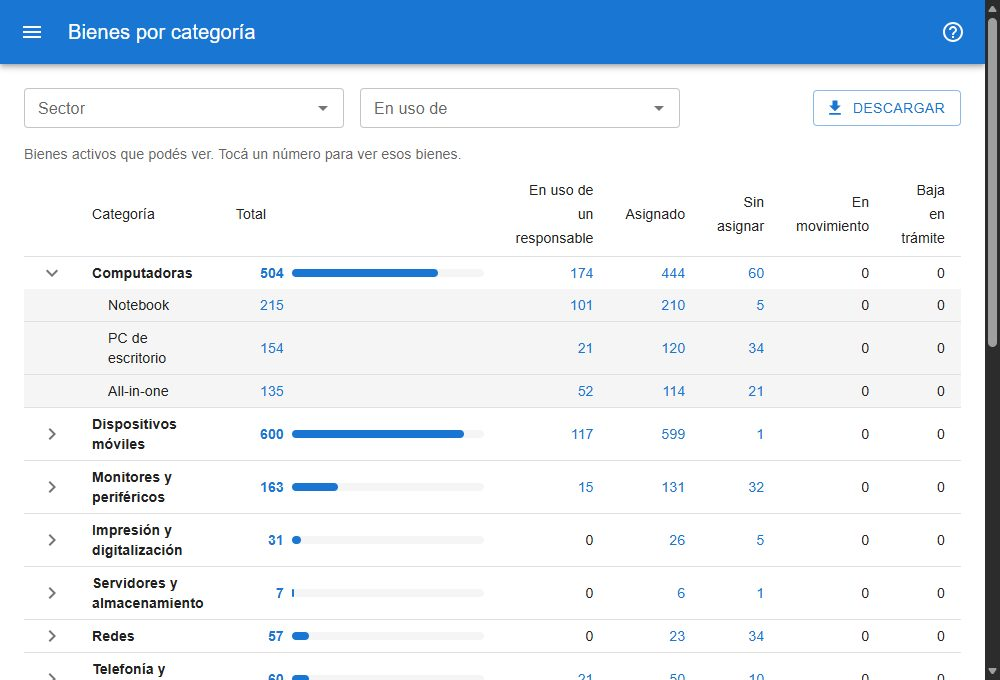
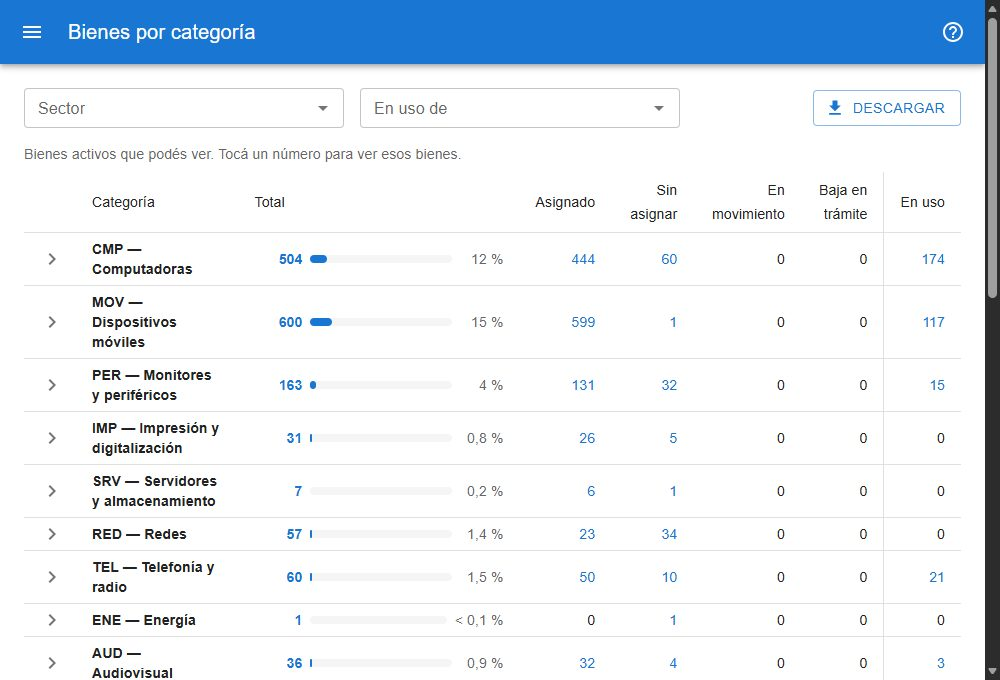
modifico el orden de las columnas. cambio la barra a porcentaje del total de bienes

diff --git a/src/client/principal/categorias/bienes-por-categoria.tsx b/src/client/principal/categorias/bienes-por-categoria.tsx
@@ -11,7 +11,7 @@ import type {Fila} from '../base/tipos-tabla';
 import {irA} from '../render-connected-app-inventario';
 import {
     FILTROS_DEL_REPORTE, armarReporte, consultaDelReporte, csvDelReporte, filtroDeCelda, hashDeBusqueda, nombreDelCsv,
-    EN_USO, opcionesDeAgrupado, opcionesDeSectores,
+    EN_USO, opcionesDeAgrupado, opcionesDeSectores, porcentaje,
     type CategoriaDeCatalogo, type Celda, type ColumnaDeEstado, type Cuenta, type EstadoDeCatalogo,
     type FilaDeCategoria, type FiltroPrevio, type OpcionDeFiltro, type Reporte,
 } from './categorias-datos';
@@ -63,17 +63,19 @@ function destinoDe(celda:Celda, siempre = false):string|null{
     return filtro || siempre ? hashDeBusqueda(filtro) : null;
 }
 
+const SEPARADOR = {borderLeft:1, borderLeftColor:'divider'};
+
 function CeldasDeEstado({cuenta, columnas, celda}:{cuenta:Cuenta, columnas:ColumnaDeEstado[], celda:Celda|null}){
-    return <>{columnas.length
-        ? <TableCell align="right">
-            <Cantidad valor={cuenta.enUso} destino={celda ? destinoDe({...celda, enUso:true}) : null}/>
-        </TableCell>
-        : null}
-    {columnas.map(columna =>
+    return <>{columnas.map(columna =>
         <TableCell key={columna.clave} align="right">
             <Cantidad valor={cuenta.porEstado[columna.clave] ?? 0} destino={celda ? destinoDe({...celda, estado:columna}) : null}/>
         </TableCell>
-    )}</>;
+    )}
+    {columnas.length
+        ? <TableCell align="right" sx={SEPARADOR}>
+            <Cantidad valor={cuenta.enUso} destino={celda ? destinoDe({...celda, enUso:true}) : null}/>
+        </TableCell>
+        : null}</>;
 }
 
 function FilaCategoria({fila, columnas, previos, angosta}:{fila:FilaDeCategoria, columnas:ColumnaDeEstado[], previos:FiltroPrevio[], angosta:boolean}){
@@ -97,6 +99,10 @@ function FilaCategoria({fila, columnas, previos, angosta}:{fila:FilaDeCategoria,
                 <Stack direction="row" spacing={1} alignItems="center">
                     <Box sx={{minWidth:48, textAlign:'right'}}><Cantidad valor={fila.cuenta.total} destino={destinoDe(celda)} fuerte/></Box>
                     <Barra proporcion={fila.proporcion}/>
+                    <Typography variant="body2" color="text.secondary" sx={{minWidth:44, textAlign:'right'}}
+                        title="Parte del total general">
+                        {porcentaje(fila.proporcion)}
+                    </Typography>
                 </Stack>
             </TableCell>
             <CeldasDeEstado cuenta={fila.cuenta} columnas={columnasVisibles} celda={celda}/>
@@ -106,15 +112,15 @@ function FilaCategoria({fila, columnas, previos, angosta}:{fila:FilaDeCategoria,
                 <TableCell/>
                 <TableCell colSpan={2}>
                     <Stack direction="row" flexWrap="wrap" columnGap={2} rowGap={0.5}>
-                        <Typography variant="body2" component="span">
-                            {EN_USO.titulo}:{' '}
-                            <Cantidad valor={fila.cuenta.enUso} destino={destinoDe({...celda, enUso:true})}/>
-                        </Typography>
                         {columnas.map(columna => <Typography key={columna.clave} variant="body2" component="span">
                             {columna.etiqueta}:{' '}
                             <Cantidad valor={fila.cuenta.porEstado[columna.clave] ?? 0} destino={destinoDe({...celda, estado:columna})}/>
                         </Typography>)}
                     </Stack>
+                    <Typography variant="body2" sx={{mt:0.5}}>
+                        {EN_USO.titulo}:{' '}
+                        <Cantidad valor={fila.cuenta.enUso} destino={destinoDe({...celda, enUso:true})}/>
+                    </Typography>
                 </TableCell>
             </TableRow>
             : null}
@@ -158,11 +164,13 @@ function TablaDelReporte({reporte, previos, angosta}:{reporte:Reporte, previos:F
                     <TableCell padding="checkbox"/>
                     <TableCell>Categoría</TableCell>
                     <TableCell sx={{width:angosta ? '50%' : '30%'}}>Total</TableCell>
-                    {columnas.length
-                        ? <TableCell align="right" title="Bienes que alguien tiene en uso (campo «en uso de» cargado)">{EN_USO.titulo}</TableCell>
-                        : null}
                     {columnas.map(columna =>
                         <TableCell key={columna.clave} align="right" title={columna.descripcion ?? undefined}>{columna.etiqueta}</TableCell>)}
+                    {columnas.length
+                        ? <TableCell align="right" sx={{...SEPARADOR, whiteSpace:'nowrap'}} title="Bienes que alguien tiene en uso (dato «en uso de» cargado); se cuenta aparte del estado">
+                            {EN_USO.titulo}
+                        </TableCell>
+                        : null}
                 </TableRow>
             </TableHead>
             <TableBody>
@@ -186,6 +194,25 @@ function TablaDelReporte({reporte, previos, angosta}:{reporte:Reporte, previos:F
             </TableBody>
         </Table>
     </TableContainer>;
+}
+
+function ReferenciaDeColumnas({columnas}:{columnas:ColumnaDeEstado[]}){
+    const items = [
+        ...columnas,
+        {clave:EN_USO.dimension, etiqueta:EN_USO.titulo, descripcion:'Alguien tiene el bien en uso: está cargado el dato «en uso de» de la ficha. Se cuenta aparte del estado, por eso no suma con las columnas anteriores.'},
+    ];
+    return <Box sx={{mt:3}}>
+        <Typography variant="subtitle2" gutterBottom>Qué significa cada columna</Typography>
+        <Box component="dl" sx={{m:0, display:'grid', gridTemplateColumns:{xs:'1fr', sm:'max-content 1fr'}, columnGap:2, rowGap:0.5}}>
+            {items.map(({clave, etiqueta, descripcion}) => <React.Fragment key={clave}>
+                <Typography component="dt" variant="body2" sx={{fontWeight:600}}>{etiqueta}</Typography>
+                <Typography component="dd" variant="body2" color="text.secondary" sx={{m:0, mb:{xs:1, sm:0}}}>{descripcion ?? ''}</Typography>
+            </React.Fragment>)}
+        </Box>
+        <Typography variant="body2" color="text.secondary" sx={{mt:1}}>
+            Cada bien está en un solo estado: el sistema lo calcula y la suma de los estados es el total.
+        </Typography>
+    </Box>;
 }
 
 function SelectorDeFiltro({titulo, opciones, valor, cargando, onCambio}:{
@@ -297,5 +324,6 @@ export function BienesPorCategoria(){
         {error ? <Alert severity="error">{error}</Alert> : null}
         {!reporte && !error ? <Typography color="text.secondary">Cargando…</Typography> : null}
         {reporte ? <TablaDelReporte reporte={reporte} previos={previos} angosta={angosta}/> : null}
+        {reporte ? <ReferenciaDeColumnas columnas={reporte.columnas}/> : null}
     </Box>;
 }

diff --git a/test/categorias-reporte.test.js b/test/categorias-reporte.test.js
@@ -20,7 +20,7 @@ require.extensions['.ts'] = function transpileTypeScript(module, filename) {
 };
 
 const {
-    armarReporte, consultaDelReporte, filtroDeCelda, hashDeBusqueda, csvDelReporte, nombreDelCsv, opcionesDeAgrupado, opcionesDeSectores, OTROS,
+    armarReporte, consultaDelReporte, filtroDeCelda, hashDeBusqueda, csvDelReporte, nombreDelCsv, opcionesDeAgrupado, opcionesDeSectores, porcentaje, OTROS,
 } = require(path.join(projectRoot, 'src/client/principal/categorias/categorias-datos.ts'));
 const {grupoFiltroDesdeTexto} = require(path.join(projectRoot, 'src/common/bienes-agrupar.ts'));
 
@@ -55,9 +55,9 @@ const FILAS = [
 
 test('ordena por el catálogo, separa las categorías aparte y deja sin categoría al final', () => {
     const reporte = armarReporte(FILAS, CATEGORIAS, ESTADOS);
-    assert.deepEqual(reporte.principal.map(f => f.nombre), ['Computadoras', 'Dispositivos móviles', 'Sin categoría']);
-    assert.deepEqual(reporte.aparte.map(f => f.nombre), ['Accesorios y componentes']);
-    assert.deepEqual(reporte.principal[0].subcategorias.map(s => s.nombre), ['Notebook', 'PC de escritorio']);
+    assert.deepEqual(reporte.principal.map(f => f.nombre), ['CMP — Computadoras', 'MOV — Dispositivos móviles', 'Sin categoría']);
+    assert.deepEqual(reporte.aparte.map(f => f.nombre), ['ACC — Accesorios y componentes']);
+    assert.deepEqual(reporte.principal[0].subcategorias.map(s => s.nombre), ['CMP-01 — Notebook', 'CMP-02 — PC de escritorio']);
 });
 
 test('los totales cierran', () => {
@@ -87,12 +87,18 @@ test('las columnas son los estados con orden; uno sin orden va a «Otros»', () 
     assert.equal(conBaja.principal[0].cuenta.total, 22);
 });
 
-test('una categoría sin bienes no aparece y la barra es relativa al bloque', () => {
+test('una categoría sin bienes no aparece y la barra es la parte del total general', () => {
     const reporte = armarReporte(FILAS, CATEGORIAS, ESTADOS);
     assert.equal(reporte.principal.some(f => f.categoria === 'VEH'), false);
-    assert.equal(reporte.principal[1].proporcion, 1);
-    assert.equal(reporte.principal[0].proporcion, 20 / 50);
-    assert.equal(reporte.aparte[0].proporcion, 1);
+    assert.equal(reporte.principal[1].proporcion, 50 / 94);
+    assert.equal(reporte.principal[0].proporcion, 20 / 94);
+    assert.equal(reporte.aparte[0].proporcion, 20 / 94);
+    const suma = [...reporte.principal, ...reporte.aparte].reduce((t, f) => t + f.proporcion, 0);
+    assert.ok(Math.abs(suma - 1) < 1e-9);
+    assert.equal(porcentaje(0.1248), '12 %');
+    assert.equal(porcentaje(0.0002), '< 0,1 %');
+    assert.equal(porcentaje(0), '0 %');
+    assert.equal(porcentaje(0.0425), '4,3 %');
 });
 
 test('el filtro de cada celda', () => {
@@ -161,13 +167,13 @@ test('el CSV abre en Excel con acentos y tiene los mismos números', () => {
     const csv = csvDelReporte(armarReporte(FILAS, CATEGORIAS, ESTADOS));
     assert.equal(csv.charCodeAt(0), 0xFEFF);
     const lineas = csv.slice(1).trimEnd().split('\r\n');
-    assert.equal(lineas[0], 'Categoría;Subcategoría;Total;En uso de un responsable;Asignado;Sin asignar');
-    assert.ok(lineas.includes('Computadoras;Notebook;13;6;10;3'));
-    assert.ok(lineas.includes('Dispositivos móviles;Tablet;50;50;50;0'));
-    assert.ok(lineas.includes('Sin categoría;(sin dato);4;0;0;4'));
-    assert.ok(lineas.includes('Total principal;;74;56;67;7'));
-    assert.ok(lineas.includes('Accesorios y componentes;Mouse;20;0;20;0'));
-    assert.equal(lineas.at(-1), 'Total general;;94;56;87;7');
+    assert.equal(lineas[0], 'Categoría;Subcategoría;Total;Asignado;Sin asignar;En uso');
+    assert.ok(lineas.includes('CMP — Computadoras;CMP-01 — Notebook;13;10;3;6'));
+    assert.ok(lineas.includes('MOV — Dispositivos móviles;MOV-02 — Tablet;50;50;0;50'));
+    assert.ok(lineas.includes('Sin categoría;(sin dato);4;0;4;0'));
+    assert.ok(lineas.includes('Total principal;;74;67;7;56'));
+    assert.ok(lineas.includes('ACC — Accesorios y componentes;ACC-01 — Mouse;20;20;0;0'));
+    assert.equal(lineas.at(-1), 'Total general;;94;87;7;56');
     assert.equal(nombreDelCsv([{dimension: 'sector', valor: '2 4', texto: '', etiqueta: ''}], new Date(2026, 9, 5)), 'bienes-por-categoria-2_4-2026-10-05.csv');
     assert.equal(nombreDelCsv([], new Date(2026, 9, 5)), 'bienes-por-categoria-2026-10-05.csv');
 });

diff --git a/src/client/principal/categorias/categorias-datos.ts b/src/client/principal/categorias/categorias-datos.ts
@@ -4,7 +4,7 @@ import {textoSinCodigo} from '../columnas-busqueda';
 
 export const DIMENSIONES_DEL_REPORTE = ['categoria', 'subcategoria', 'estado', 'en_uso'] as const;
 
-export const EN_USO = {dimension:'en_uso', valor:'SI', texto:'Sí', etiqueta:'en uso de un responsable', titulo:'En uso de un responsable'} as const;
+export const EN_USO = {dimension:'en_uso', valor:'SI', texto:'Sí', etiqueta:'en uso de un responsable', titulo:'En uso'} as const;
 
 export const OTROS = '__otros__';
 
@@ -69,9 +69,14 @@ function porOrdenYCodigo<T>(orden:(x:T) => number|null, codigo:(x:T) => string){
     return (a:T, b:T) => (orden(a) ?? Infinity) - (orden(b) ?? Infinity) || codigo(a).localeCompare(codigo(b));
 }
 
-function conProporcion(filas:FilaDeCategoria[]):FilaDeCategoria[]{
-    const mayor = Math.max(0, ...filas.map(fila => fila.cuenta.total));
-    return filas.map(fila => ({...fila, proporcion:mayor ? fila.cuenta.total / mayor : 0}));
+function conProporcion(filas:FilaDeCategoria[], total:number):FilaDeCategoria[]{
+    return filas.map(fila => ({...fila, proporcion:total ? fila.cuenta.total / total : 0}));
+}
+
+export function porcentaje(proporcion:number):string{
+    const decimales = proporcion < 0.1 ? 1 : 0;
+    const valor = Math.round(proporcion * 100 * 10 ** decimales) / 10 ** decimales;
+    return proporcion > 0 && valor === 0 ? '< 0,1 %' : `${String(valor).replace('.', ',')} %`;
 }
 
 export function armarReporte(
@@ -100,7 +105,7 @@ export function armarReporte(
         if(!sub){
             sub = {
                 subcategoria,
-                nombre:subcategoria == null ? SIN_DATO : textoSinCodigo(textos[1] ?? subcategoria, subcategoria),
+                nombre:subcategoria == null ? SIN_DATO : textos[1] ?? subcategoria,
                 cuenta:cuentaVacia(),
             };
             grupo.subcategorias.set(subcategoria, sub);
@@ -111,7 +116,7 @@ export function armarReporte(
         const delCatalogo = categoria == null ? undefined : catalogo.get(categoria);
         return {
             categoria,
-            nombre:categoria == null ? 'Sin categoría' : delCatalogo?.nombre ?? categoria,
+            nombre:categoria == null ? 'Sin categoría' : delCatalogo ? `${categoria} — ${delCatalogo.nombre}` : categoria,
             cuenta,
             subcategorias:[...subcategorias.values()].sort((a, b) =>
                 a.subcategoria == null ? 1 : b.subcategoria == null ? -1 : a.subcategoria.localeCompare(b.subcategoria)),
@@ -124,8 +129,9 @@ export function armarReporte(
         .sort((a, b) => a.categoria == null ? 1 : b.categoria == null ? -1
             : porOrdenYCodigo<typeof a>(x => x.orden, x => x.categoria ?? '')(a, b))
         .map(({aparte:_aparte, orden:_orden, ...fila}) => fila);
-    const principal = conProporcion(ordenar(filasDeCategoria.filter(fila => !fila.aparte)));
-    const aparte = conProporcion(ordenar(filasDeCategoria.filter(fila => fila.aparte)));
+    const totalGeneral = filasDeCategoria.reduce((suma, fila) => suma + fila.cuenta.total, 0);
+    const principal = conProporcion(ordenar(filasDeCategoria.filter(fila => !fila.aparte)), totalGeneral);
+    const aparte = conProporcion(ordenar(filasDeCategoria.filter(fila => fila.aparte)), totalGeneral);
     const totalPrincipal = sumarCuentas(principal.map(fila => fila.cuenta));
     const totalAparte = sumarCuentas(aparte.map(fila => fila.cuenta));
     return {
@@ -226,8 +232,8 @@ function campoCsv(valor:string|number):string{
 }
 
 export function csvDelReporte(reporte:Reporte):string{
-    const numeros = (cuenta:Cuenta) => [cuenta.total, cuenta.enUso, ...reporte.columnas.map(columna => cuenta.porEstado[columna.clave] ?? 0)];
-    const lineas:(string|number)[][] = [['Categoría', 'Subcategoría', 'Total', EN_USO.titulo, ...reporte.columnas.map(columna => columna.etiqueta)]];
+    const numeros = (cuenta:Cuenta) => [cuenta.total, ...reporte.columnas.map(columna => cuenta.porEstado[columna.clave] ?? 0), cuenta.enUso];
+    const lineas:(string|number)[][] = [['Categoría', 'Subcategoría', 'Total', ...reporte.columnas.map(columna => columna.etiqueta), EN_USO.titulo]];
     const bloque = (filas:FilaDeCategoria[]) => {
         for(const categoria of filas){
             for(const sub of categoria.subcategorias){

diff --git a/src/client/principal/control/controles-listado.tsx b/src/client/principal/control/controles-listado.tsx
@@ -150,7 +150,7 @@ export function ControlesListado({
     );
     const espacios = React.useMemo(() => opcionesDe(filas, 'espacio', espacioDe), [filas]);
     const estados = React.useMemo(
-        () => opcionesDe(filas, 'estado', f => textoDeReferencia(f.estado, f.estados_bien__descripcion)),
+        () => opcionesDe(filas, 'estado', f => textoDeReferencia(f.estado, f.estados_bien__etiqueta)),
         [filas],
     );
     const atributos = React.useMemo(() => opcionesDePares(filas.map(f => f.atributos as Par[])), [filas]);
@@ -230,7 +230,7 @@ export function ControlesListado({
             field:'estado',
             headerName:'Estado',
             width:130,
-            valueGetter:(_v, fila) => textoDeReferencia(fila.estado, fila.estados_bien__descripcion),
+            valueGetter:(_v, fila) => textoDeReferencia(fila.estado, fila.estados_bien__etiqueta),
         },
         {
             field:'sector',

diff --git a/src/server/table-bienes_control.ts b/src/server/table-bienes_control.ts
@@ -96,7 +96,7 @@ export function bienes_control(context:TableContext):TableDefinition{
                 alias:'responsable_sector', displayFields:['apellido', 'nombre']},
             {references:'responsables'        , fields:['responsable']        ,
                 alias:'responsable', displayFields:['apellido', 'nombre']},
-            {references:'estados_bien'        , fields:[{source:'estado', target:'estado_bien'}], displayFields:['descripcion']},
+            {references:'estados_bien'        , fields:[{source:'estado', target:'estado_bien'}], displayFields:['etiqueta', 'descripcion']},
         ],
         detailTables:[
             {table:'controles_bien', fields:['ficha'], abr:'Ctl', label:'controles'},

diff --git a/CLAUDE.md b/CLAUDE.md
@@ -21,7 +21,7 @@ Columnas de la búsqueda: abre con `COLUMNAS_INICIALES` (`principal/columnas-bus
 
 Desglose de la búsqueda (`principal/desglose-busqueda.tsx`, lógica pura en `desglose-datos.ts`): una fila de chips arriba del listado con la cantidad por valor del campo elegido en «Desglosar por» (catálogo de `bienes_dimensiones_agrupar`, arranca en «categoría», la elección queda en `localStorage`). Pide `bienes_buscar_agrupado` con `consultaResumen` más el `grupoFiltro`, salvo que sea propio (una parte, mismo campo: `consultaDelDesglose`), así la suma de los chips es el total del listado. Tocar un chip pone ese mismo `grupoFiltro`, el del Resumen: uno reemplaza al otro.
 
-Clasificación funcional: categoría (`categorias`, con `orden` y `aparte`) y subcategoría (`subcategorias`), que se suman al grupo sin reemplazarlo. El bien no guarda nada: `grupos.subcategoria` asigna cada grupo y `sqlBienes` deriva `subcategoria`/`categoria` (con `_texto`) desde el grupo; en `bienes` son `inTable:false` con `softForeignKeys` (para el nombre en la ficha, sin restricción en la base), están en `BIENES_GRID_ASSIGNMENT_FIELDS` y `BIENES_PRESENTATION_FIELDS`, y son dimensiones de `ESPECIALES`. Los `.tab` (`install/categorias.tab`, `install/subcategorias.tab` y la columna de `grupos.tab`) salen de la planilla `local-clasificacion/equivalencias-grupos.xlsx` con `scripts/clasificacion-desde-planilla.cjs`, que también deja el SQL de datos para producción. Reporte «Bienes por categoría» (wScreen `bienes_por_categoria`, `ws-categorias.tsx` + `principal/categorias/`): pide `bienes_buscar_agrupado` (activos, por categoría, subcategoría y estado, y los filtros «Sector» y «En uso de» como `grupoFiltro`, `FILTROS_DEL_REPORTE`; las personas de «En uso de» salen de `bienes_buscar_agrupado` por `enusode_responsable`) y pivotea en el cliente (`categorias-datos.ts`); la columna «En uso de un responsable» cuenta por la dimensión `en_uso` (`ESPECIALES`: SI/NO según `enusode_responsable`), que también es el filtro al tocarla; el selector de sector ofrece sólo los activos, con su responsable (`opcionesDeSectores`); las columnas de estado son los `estados_bien` con `orden` (titulados con `etiqueta`), el resto va a «Otros». Las categorías `aparte` van en otro bloque y no suman al total principal. Cada número lleva a la búsqueda con `w=principal&filtro=<grupoFiltro en JSON>` (`hashDeBusqueda`; lo lee `grupoFiltroDesdeTexto` en `ws-principal.tsx`), así el total del listado es el mismo número. Los listados de control (`bienes_control`) y de bajas (`bienes_baja`) también traen `categoria`/`subcategoria`, con columnas y filtros de cliente (la subcategoría se limita a la categoría elegida; las opciones salen de las filas con `opcionesDe` de `base/referencias.ts`).
+Clasificación funcional: categoría (`categorias`, con `orden` y `aparte`) y subcategoría (`subcategorias`), que se suman al grupo sin reemplazarlo. El bien no guarda nada: `grupos.subcategoria` asigna cada grupo y `sqlBienes` deriva `subcategoria`/`categoria` (con `_texto`) desde el grupo; en `bienes` son `inTable:false` con `softForeignKeys` (para el nombre en la ficha, sin restricción en la base), están en `BIENES_GRID_ASSIGNMENT_FIELDS` y `BIENES_PRESENTATION_FIELDS`, y son dimensiones de `ESPECIALES`. Los `.tab` (`install/categorias.tab`, `install/subcategorias.tab` y la columna de `grupos.tab`) salen de la planilla `local-clasificacion/equivalencias-grupos.xlsx` con `scripts/clasificacion-desde-planilla.cjs`, que también deja el SQL de datos para producción. Reporte «Bienes por categoría» (wScreen `bienes_por_categoria`, `ws-categorias.tsx` + `principal/categorias/`): pide `bienes_buscar_agrupado` (activos, por categoría, subcategoría y estado, y los filtros «Sector» y «En uso de» como `grupoFiltro`, `FILTROS_DEL_REPORTE`; las personas de «En uso de» salen de `bienes_buscar_agrupado` por `enusode_responsable`) y pivotea en el cliente (`categorias-datos.ts`; categorías y subcategorías se muestran con su código); la columna «En uso» (al final, separada de los estados) cuenta por la dimensión `en_uso` (`ESPECIALES`: SI/NO según `enusode_responsable`), que también es el filtro al tocarla; el selector de sector ofrece sólo los activos, con su responsable (`opcionesDeSectores`); las columnas de estado son los `estados_bien` con `orden` (titulados con `etiqueta`), el resto va a «Otros». Las categorías `aparte` van en otro bloque y no suman al total principal. Cada número lleva a la búsqueda con `w=principal&filtro=<grupoFiltro en JSON>` (`hashDeBusqueda`; lo lee `grupoFiltroDesdeTexto` en `ws-principal.tsx`), así el total del listado es el mismo número. Los listados de control (`bienes_control`) y de bajas (`bienes_baja`) también traen `categoria`/`subcategoria`, con columnas y filtros de cliente (la subcategoría se limita a la categoría elegida; las opciones salen de las filas con `opcionesDe` de `base/referencias.ts`).
 
 Foto: `FotoDelBien` (`principal/bien/foto-del-bien.tsx`) muestra la miniatura de `fila.foto`, la agranda al tocarla y, con `puedeSacar` y `puede_guardar`, ofrece "Sacar foto": un `<input type="file" capture>` (cámara en el teléfono, selector de archivos en la computadora), achica a 1600 px con un canvas (`medidasDeFoto`) y sube con `es_foto`. Está en el encabezado de la ficha, la vista rápida (sin sacar), la tarjeta "Estado actual" del control y Escanear. No es columna de la búsqueda (`foto` es `inTable:false` y no es de asignación), pero sí campo de filtro.
 

diff --git a/src/client/principal/ayuda/manual/categorias.md b/src/client/principal/ayuda/manual/categorias.md
@@ -17,18 +17,33 @@ La categoría y la subcategoría también se ven en la [ficha](#ayuda/ficha) y c
 
 ## Cómo se lee
 
-- Una fila por categoría, con el **Total** y una barra que muestra su peso frente a la más grande.
-- **En uso de un responsable** cuenta los bienes que alguien tiene en uso (el dato *en uso de* de la ficha está cargado).
+- Una fila por categoría, con su código (*CMP — Computadoras*), el **Total**, una barra y el porcentaje que esa categoría representa sobre el **Total general**. Las subcategorías también llevan su código (*CMP-01 — Notebook*).
 - Las columnas siguientes reparten el total por estado del bien: **Asignado**, **Sin asignar**, **En movimiento** y **Baja en trámite**.
+- La última, **En uso**, separada por una línea, cuenta los bienes que alguien tiene en uso (el dato *en uso de* de la ficha está cargado).
 - La flecha de la izquierda abre la categoría en sus subcategorías.
 - **Sin categoría** reúne los bienes cuyo grupo todavía no tiene subcategoría.
 - *Accesorios y componentes* (mouse, teclados, memorias…) es una categoría más, con las demás.
 - El **Total general** coincide con la cantidad de bienes activos.
 - Si en el catálogo una categoría se marca como *aparte*, va abajo, con su propio total, y no suma al **Total principal**; el **Total general** sigue sumando todo. Hoy no hay ninguna marcada.
 
+## Qué significa cada estado
+
+El estado del bien no se carga a mano: lo calcula el sistema, y cada bien está en uno solo. Si se cumplen varias condiciones, vale la primera de esta lista:
+
+1. **Baja en trámite**: se pidió la baja del bien y todavía no se aprobó ni se rechazó.
+2. **En movimiento**: el bien está en una solicitud de movimiento que ya se envió y todavía no se procesó. Las solicitudes en borrador no cuentan.
+3. **Asignado**: su último movimiento lo deja en un sector o a cargo de un responsable directo.
+4. **Sin asignar**: su último movimiento no tiene sector ni responsable, o nunca se movió.
+
+Los bienes dados de baja no aparecen en este reporte, que cuenta sólo los activos.
+
+**En uso** no es un estado: cuenta los bienes que alguien tiene en uso (el dato *en uso de* de la ficha está cargado), sin importar su estado. Por eso esa columna no suma con las demás.
+
+Debajo de la tabla, **Qué significa cada columna** resume estas definiciones.
+
 ## Ver los bienes de un número
 
-Tocá cualquier número para abrir la búsqueda con esos bienes: por ejemplo, el de *Notebook* en la columna *Sin asignar* abre la búsqueda filtrada por *subcategoría: Notebook · estado: Sin asignar*, y el total del listado es el mismo número. El filtro se quita desde **Filtros aplicados**.
+Tocá cualquier número para abrir la búsqueda con esos bienes: por ejemplo, el de *Notebook* en la columna *Sin asignar* abre la búsqueda filtrada por *subcategoría: CMP-01 — Notebook · estado: Sin asignar*, y el total del listado es el mismo número. El filtro se quita desde **Filtros aplicados**.
 
 ## Sector, en uso de y descarga
 

diff --git a/openspec/changes/clasificacion-funcional-de-bienes/specs/reporte-por-categoria/spec.md b/openspec/changes/clasificacion-funcional-de-bienes/specs/reporte-por-categoria/spec.md
@@ -11,7 +11,7 @@ Que un usuario gerencial vea en una sola pantalla, sin armar filtros, cuántos b
 - La pantalla SHALL mostrar una fila por categoría, en el orden del catálogo, con el total de bienes y la cantidad en cada estado del bien.
 - Los estados SHALL ser los del catálogo que tienen orden, en ese orden y con su etiqueta. Si algún bien está en un estado sin orden, SHALL sumarse en una columna «Otros».
 - Cada fila de categoría SHALL poder abrirse para mostrar sus subcategorías con las mismas columnas. Al entrar, todas SHALL estar cerradas.
-- Junto al total de cada categoría SHALL verse una barra proporcional a la categoría más grande de su bloque.
+- Junto al total de cada categoría SHALL verse una barra proporcional a su parte del total general, y ese porcentaje.
 - Las categorías sin bienes no SHALL mostrarse.
 
 #### Scenario: Ver cuántas computadoras hay
@@ -27,11 +27,11 @@ Que un usuario gerencial vea en una sola pantalla, sin armar filtros, cuántos b
 - **WHEN** no hay bienes activos de la categoría Vehículos
 - **THEN** la fila «Vehículos» no aparece
 
-### Requirement: Cantidad en uso de un responsable
-Cada fila y cada total SHALL mostrar, en una columna «En uso de un responsable», cuántos de sus bienes tienen cargado quién los usa. Tocar esa cantidad SHALL abrir la búsqueda con esos bienes, con el filtro «en uso de un responsable: Sí».
+### Requirement: Cantidad en uso
+Cada fila y cada total SHALL mostrar, en una columna «En uso» al final, separada de las columnas de estado, cuántos de sus bienes tienen cargado quién los usa. Tocar esa cantidad SHALL abrir la búsqueda con esos bienes, con el filtro «en uso de un responsable: Sí».
 
 #### Scenario: Computadoras en uso
-- **WHEN** el usuario toca la cantidad «En uso de un responsable» de Computadoras
+- **WHEN** el usuario toca la cantidad «En uso» de Computadoras
 - **THEN** la búsqueda muestra las computadoras que alguien tiene en uso, y el total es el mismo número
 
 ### Requirement: Totales que cierran

diff --git a/openspec/changes/clasificacion-funcional-de-bienes/tasks.md b/openspec/changes/clasificacion-funcional-de-bienes/tasks.md
@@ -54,7 +54,9 @@
 - [x] 4b.1 Filtro «En uso de» en el reporte (`FILTROS_DEL_REPORTE`, opciones de `bienes_buscar_agrupado` por `enusode_responsable`), con su test.
 - [x] 4b.2 Categoría y subcategoría en `bienes_control` y `bienes_baja` (columnas, claves foráneas para el nombre y filtros de cliente, con `opcionesDe` movido a `base/referencias.ts`). Probado en el navegador contra la base de prueba.
 
-- [x] 4b.3 Columna «En uso de un responsable» (dimensión `en_uso` en `ESPECIALES`) y selector de sectores sólo con activos y con su responsable (`opcionesDeSectores`), con tests. Probado en el navegador contra la base de prueba.
+- [x] 4b.3 Columna «En uso» al final y separada de los estados (dimensión `en_uso` en `ESPECIALES`) y selector de sectores sólo con activos y con su responsable (`opcionesDeSectores`), con tests. Probado en el navegador contra la base de prueba.
+
+- [x] 4b.4 Barra y porcentaje sobre el total general; referencia de columnas bajo la tabla; descripciones de `estados_bien` aclaradas (también en `cambios_2026-10-15.sql`) y etiqueta corta en el listado de control; códigos en categorías y subcategorías del reporte.
 
 ## 5. Cierre
 

diff --git a/openspec/changes/clasificacion-funcional-de-bienes/design.md b/openspec/changes/clasificacion-funcional-de-bienes/design.md
@@ -95,7 +95,7 @@ Se agregan `etiqueta` (Asignado, Sin asignar, En movimiento, Baja en trámite, B
 - La `descripcion` va como ayuda en el encabezado.
 
 **10. Visualización simple.**
-Una tabla de MUI con filas de categoría que se abren (todas cerradas al entrar) y una barra horizontal de CSS en la columna del total, proporcional a la categoría más grande del bloque. El número siempre se ve junto a la barra, así que la barra no es la única forma de leer el dato.
+Una tabla de MUI con filas de categoría que se abren (todas cerradas al entrar) y una barra horizontal de CSS en la columna del total, proporcional a la parte de la categoría sobre el total general, con el porcentaje al lado (al principio era relativa a la categoría más grande, y se leía como un porcentaje que no era). El número y el porcentaje siempre se ven, así que la barra no es la única forma de leer el dato.
 
 En el teléfono, las columnas por estado se reemplazan por el total con la barra, y el detalle por estado se ve al abrir la categoría.
 

diff --git a/openspec/changes/clasificacion-funcional-de-bienes/proposal.md b/openspec/changes/clasificacion-funcional-de-bienes/proposal.md
@@ -20,7 +20,7 @@ El desglose de la búsqueda (`desglose-por-grupo-en-busqueda`) ya muestra cantid
 - **Pantalla nueva «Bienes por categoría»**, en «reportes», para todos los roles:
   - una tabla con una fila por categoría, que se abre en sus subcategorías;
   - columnas: total y cantidad por estado del bien (asignado, sin asignar, en movimiento, baja en trámite);
-  - una barra que muestra el peso de cada categoría;
+  - una barra y el porcentaje de cada categoría sobre el total general;
   - las categorías aparte, debajo, con su propio subtotal, y el total general al pie;
   - un filtro opcional por sector;
   - tocar cualquier número abre la búsqueda de bienes con ese filtro, para ver qué bienes son;
